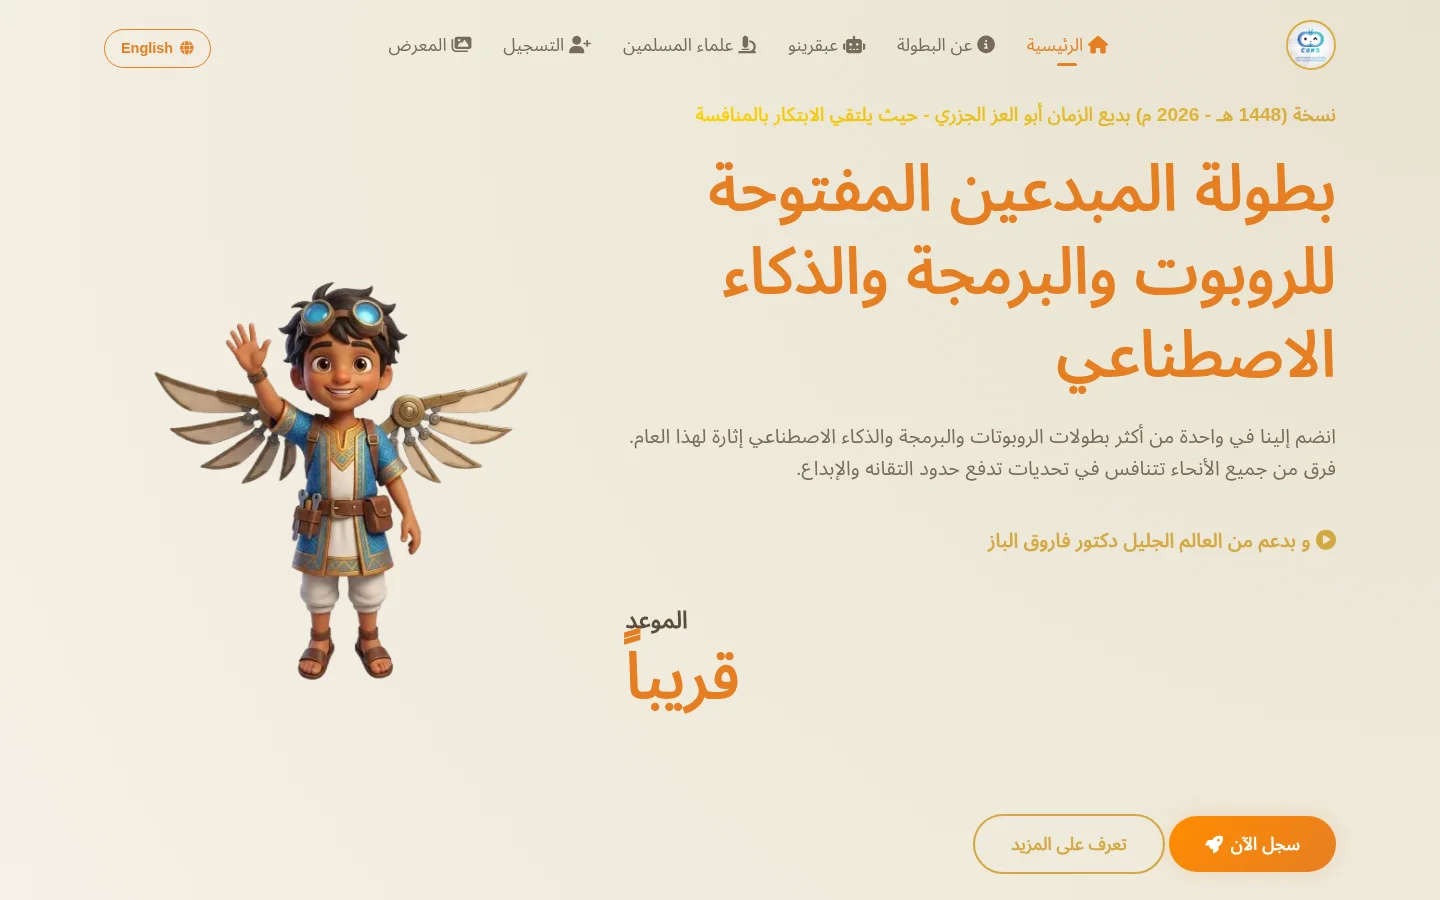
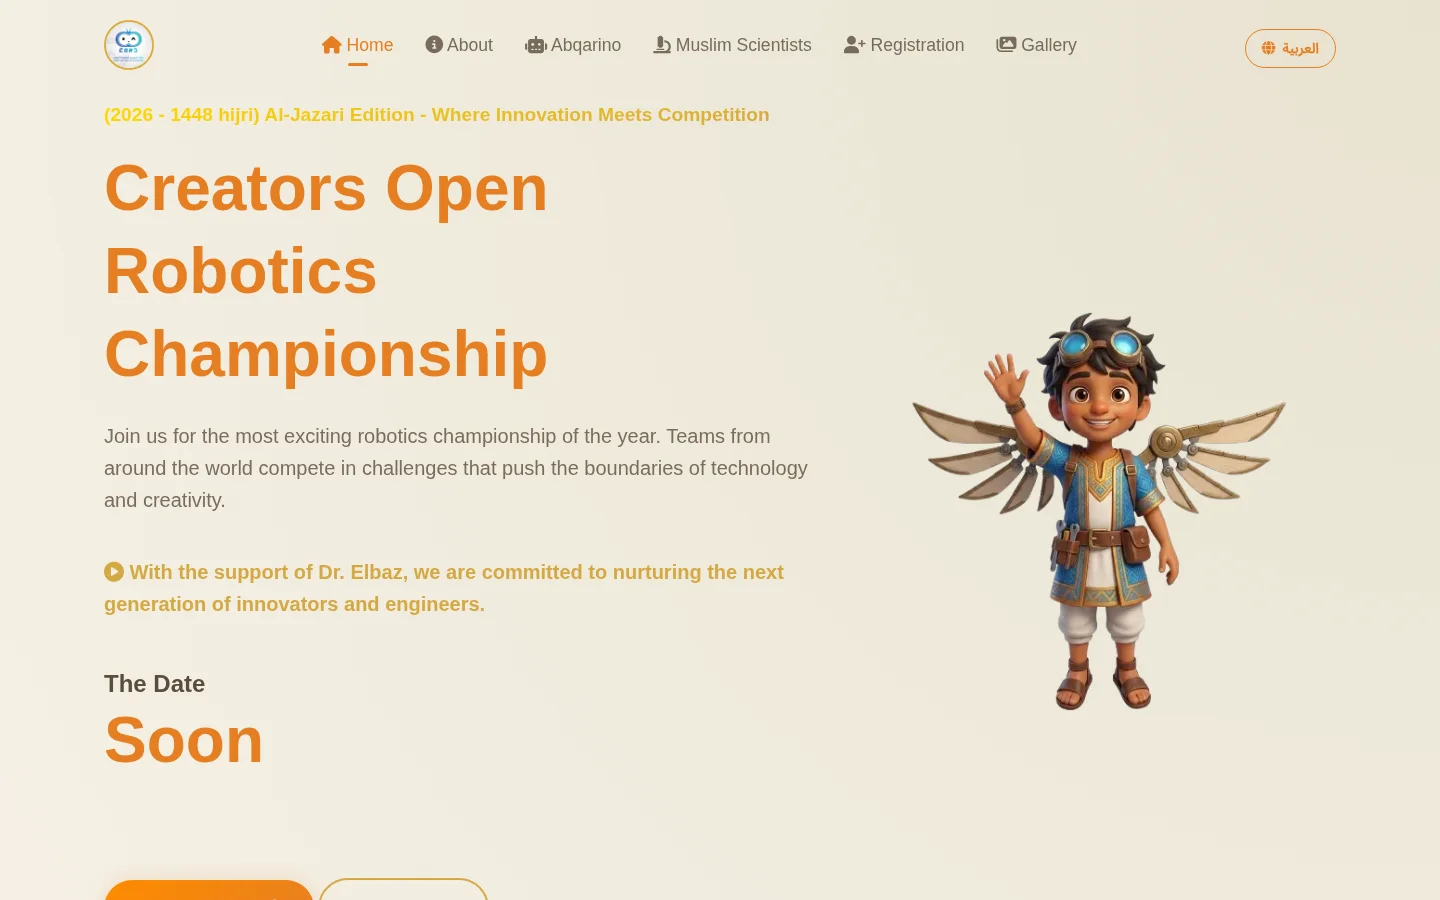
feat: English screenshots; drop Arabic-only ones

diff --git a/src/content/projects/grocery-delivery.md b/src/content/projects/grocery-delivery.md
@@ -8,10 +8,6 @@ summary: "An online grocery store: customer app, admin dashboard and API, run li
 role: Maintenance and new features across app, API and dashboard
 color: "#b6cfae"
 order: 3
-shots:
-  - src: "/work/disha-site.webp"
-    alt: "The grocery platform website and customer app preview"
-    kind: wide
 problem: A live grocery business needed changes to products, prices and screens without waiting for an app release.
 solution: Server-driven screens in the mobile app, so layout changes ship from the dashboard, plus an admin panel for orders and catalogue.
 fragment:

diff --git a/src/content/projects/content-platform.md b/src/content/projects/content-platform.md
@@ -13,13 +13,9 @@ shots:
     alt: "The admin dashboard of the content and jobs platform"
     kind: wide
     height: 726
-  - src: "/work/kn-site.webp"
-    alt: "The public website of the content and jobs platform"
-    kind: wide
   - src: "/work/kn-login.webp"
     alt: "The sign-in screen of the platform admin"
     kind: wide
-    height: 734
 problem: Editors needed to publish reels, jobs and news from one place without a developer.
 solution: A dashboard and API for reels, job posts and news, with an editorial workflow.
 fragment:

diff --git a/src/content/projects/kashf.md b/src/content/projects/kashf.md
@@ -13,8 +13,10 @@ shots:
     alt: "The Kashf website, with a sample of the doctor app"
     kind: wide
   - src: "/work/kashf-app.webp"
-    alt: "The Kashf doctor app home screen"
+    alt: "The Kashf doctor app new patient form"
     kind: phone
+    width: 720
+    height: 1487
 problem: A solo doctor ran appointments, records and prescriptions across paper and chat messages.
 solution: A native mobile app with its own API behind it. One doctor per install today, built so a secretary's account can sync with it next.
 fragment:

diff --git a/src/content/projects/teacho.md b/src/content/projects/teacho.md
@@ -8,10 +8,6 @@ summary: An education platform with a web dashboard for teachers and a mobile ap
 role: Mobile app, API and dashboard
 color: "#bcc4e4"
 order: 2
-shots:
-  - src: "/work/teacho-dashboard.webp"
-    alt: "The Teacho admin dashboard"
-    kind: wide
 problem: Courses, students and progress lived in separate tools, so nobody had one view of a learner.
 solution: A teacher dashboard and a mobile app for students, both on one shared API.
 fragment:
